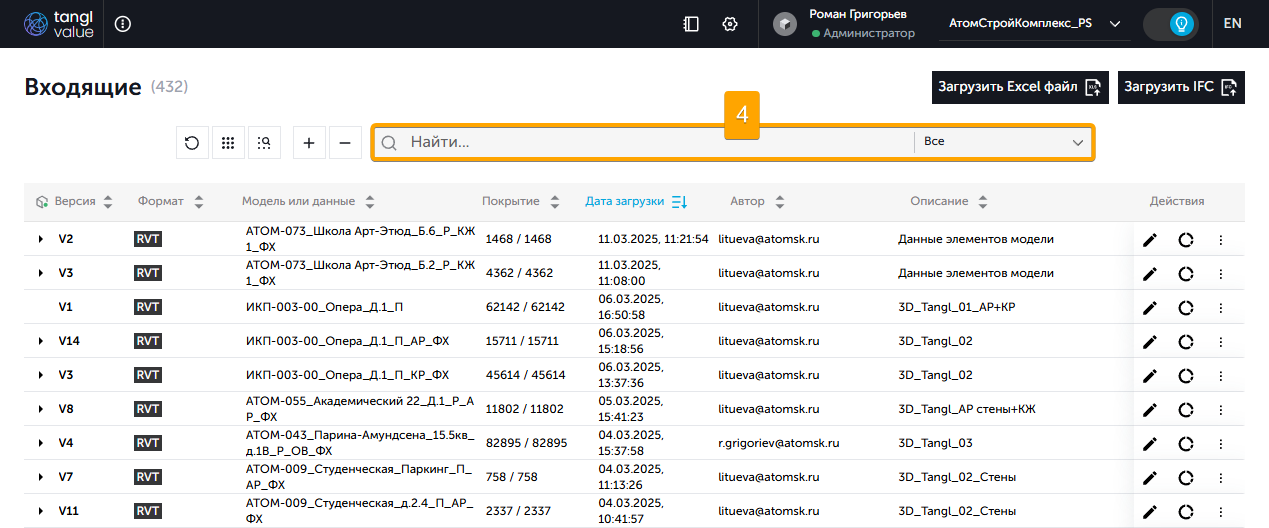
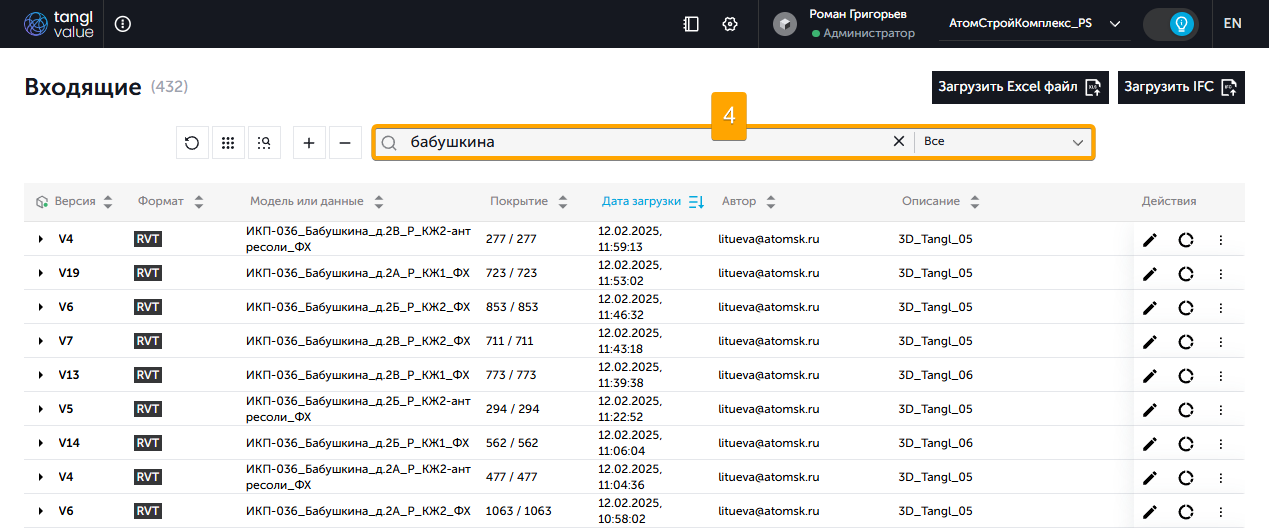
Update content directory with files from 01_Content

diff --git a/content/Основы работы с 3D-моделью во Входящих.md b/content/Основы работы с 3D-моделью во Входящих.md
@@ -11,7 +11,7 @@
 ---
 # 1. О чем эта инструкция?
 > - как найти модель, которая вам нужна,
-> - как открыть несколько моделей сразу,
+> - как открыть и подготовить модель,
 > - принципы и приемы работы в 3D.
 # 2. Как найти модель, которая вам нужна? 
 ## 2.1. Подготовка списка моделей
@@ -40,6 +40,36 @@
 - раздел (КЖ)
 - тип файла (ФХ)
 
-Ищите нужную модель по этим блокам с помощью **фильтра** (3)⬇
+Ищите нужную модель по этим блокам с помощью **фильтра** (4)⬇
 
 ![[attachments/Модель во входящих_4.png]]
+
+> [!hint] 
+> Обращайте внимание на столбец **Описание**. В нем указано:
+> - название вида из Revit (3D_Tangl),
+> - порядковый номер (01, 02…0-n),
+> - краткое описание содержимого (например, «Стены»)
+> - если доступно, номер изменения (Изм. 1).
+# 3. Как открыть и подготовить модель
+## 3.1. Открытие модели
+Выберите модель и нажмите кнопку открытия в разделе **Действия**, либо в меню **Выбрано** (5)⬇
+
+![[attachments/Модель во входящих_5.png]]
+
+> [!hint] 
+> Модель можно открыть двойным щелчком. 
+
+## 3.2. Подготовка вида
+При первом открытии модель загрузится в таком виде⬇
+
+![[attachments/Модель во входящих_6.png]] 
+
+Вид перегружен лишними панелями. [[Что такое Входящие и Проекты#^ed8a08|Отключите]] их (1, 2, 3, 4)⬇
+
+> [!important] 
+> Набор панелей может отличаться, например (1, 2, 4). На этом этапе обучения рекомендуется отключить все.
+
+![[attachments/Модель во входящих_7.png]]
+Вид готов к работе⬇
+
+![[attachments/Модель во входящих_8.png]]
